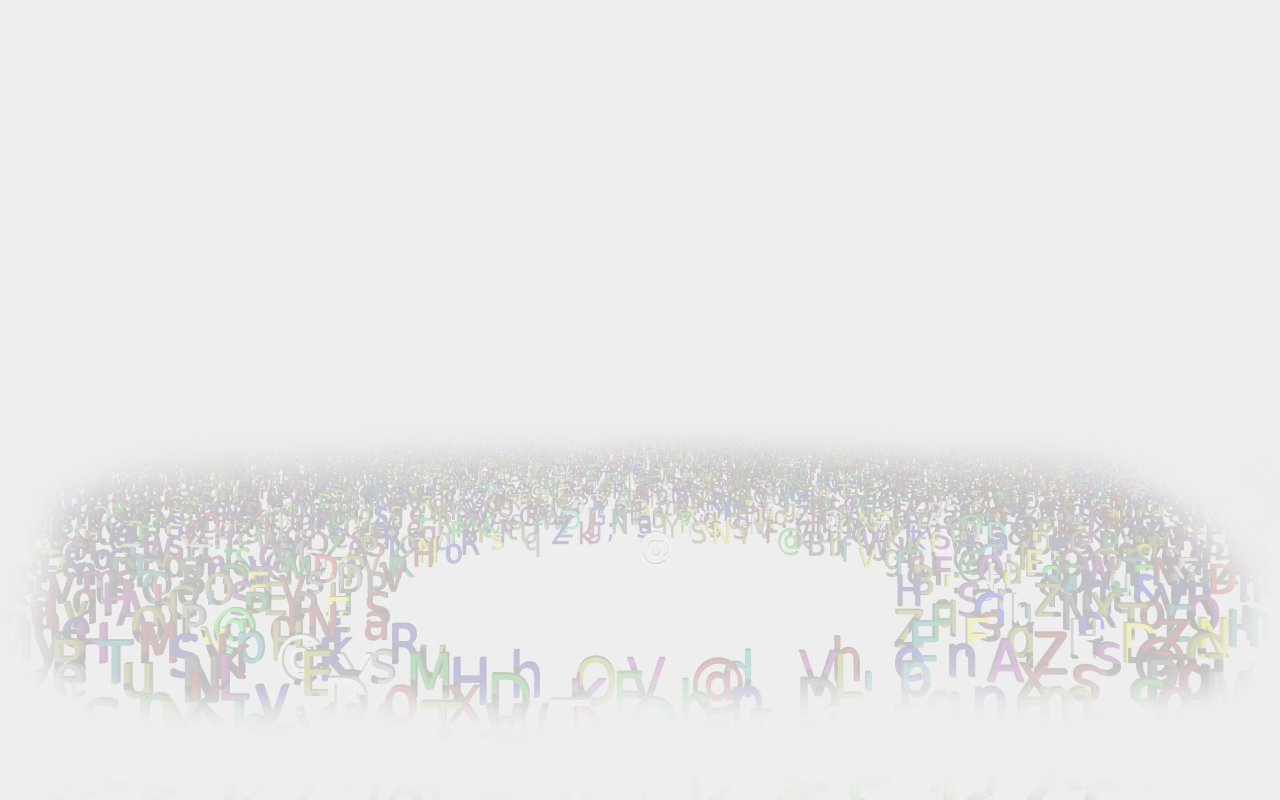
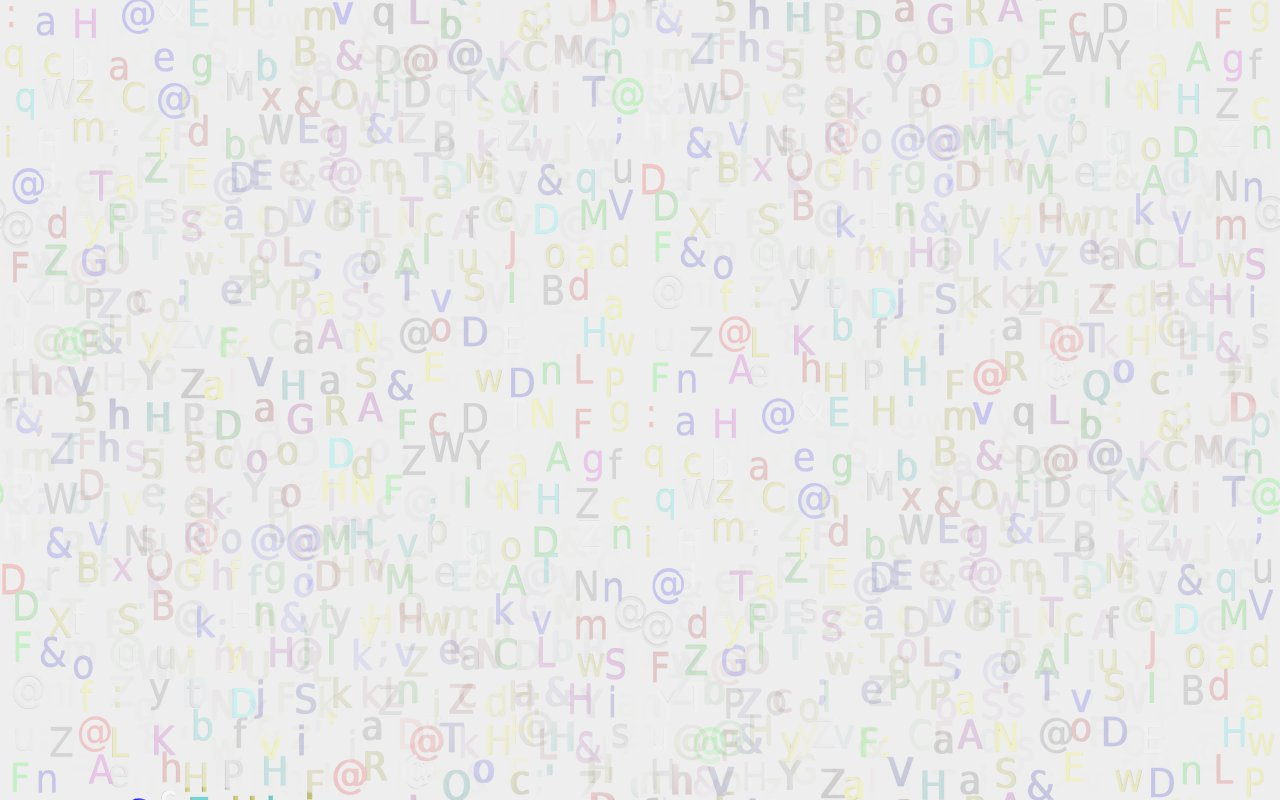
New background image.

diff --git a/webmocks/alt_design2/style-xiella.css b/webmocks/alt_design2/style-xiella.css
@@ -52,7 +52,7 @@ body {
     overflow-y: scroll;
     background-color: #eee;
     background-image: url('background.jpg');
-    background-repeat: no-repeat;
+    background-repeat: repeat;
     background-position: top center;
     font-size: 0.8em;
 }
